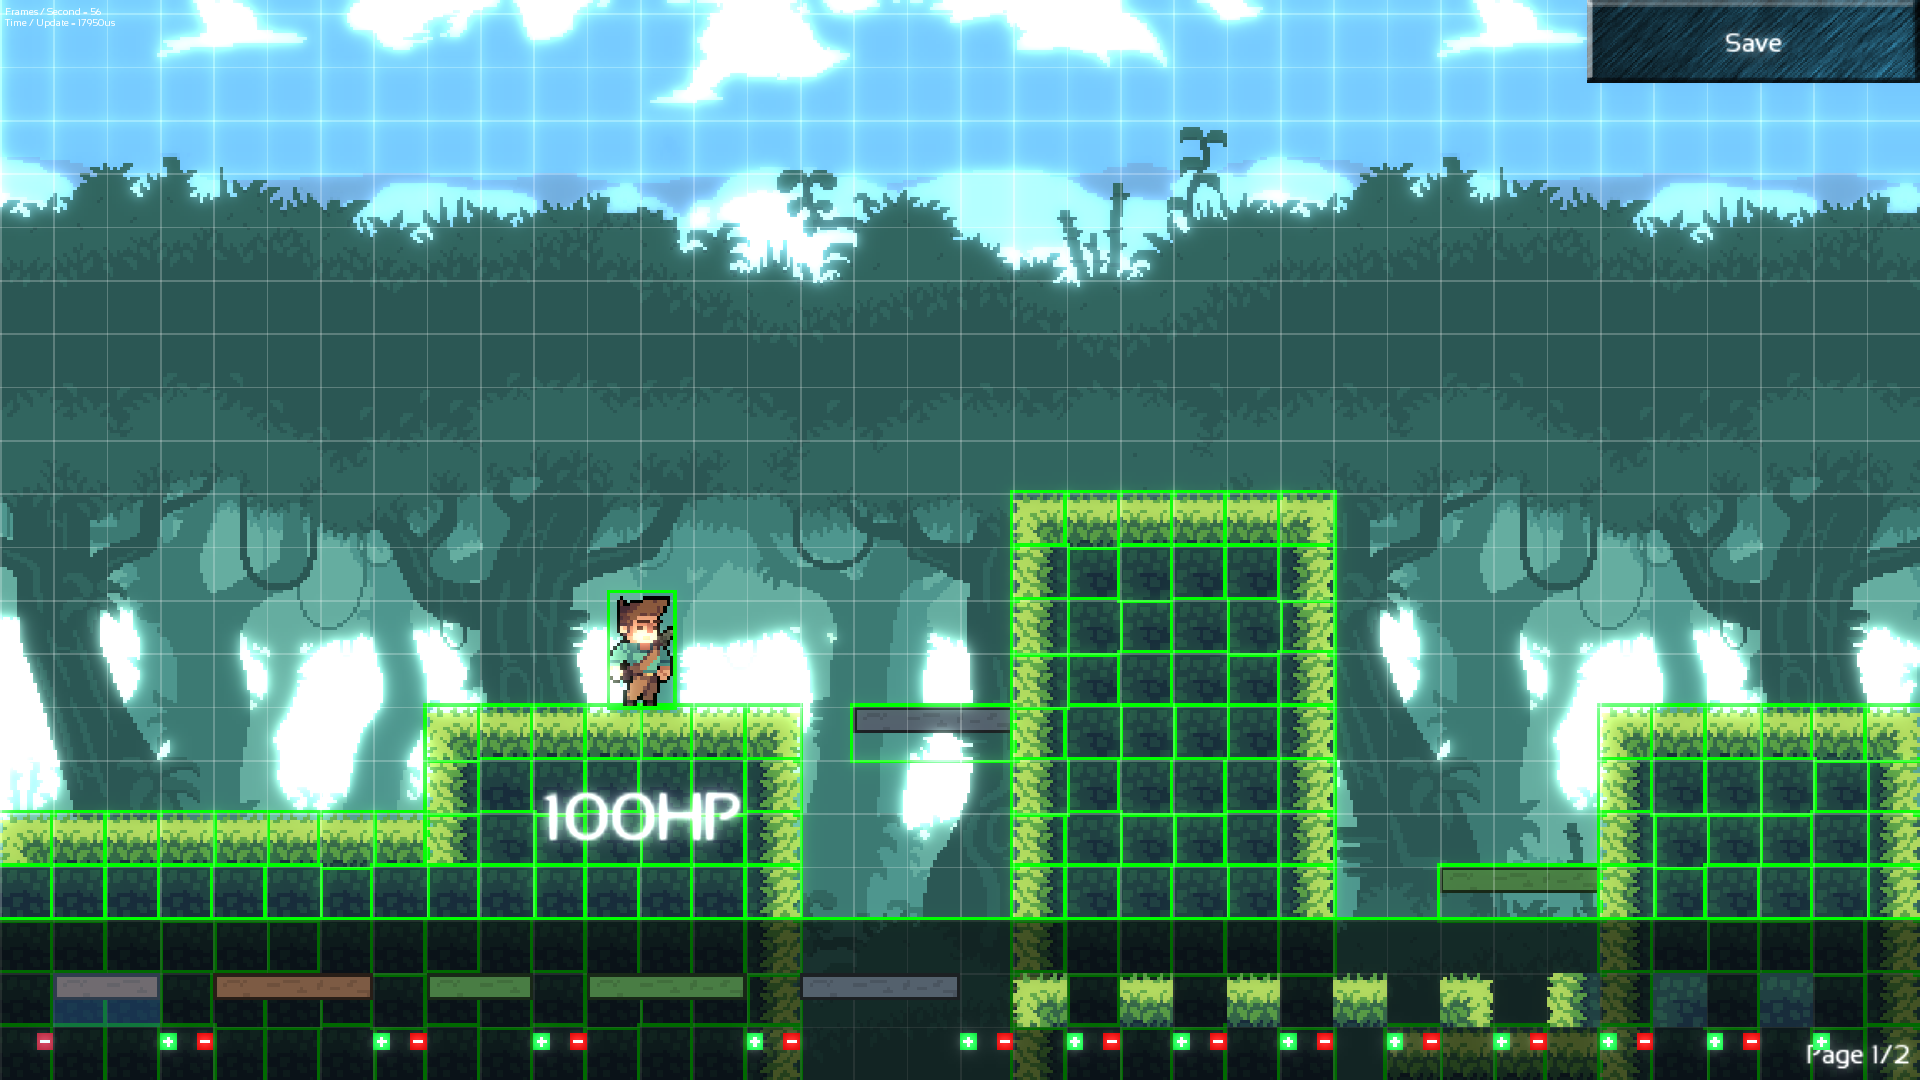
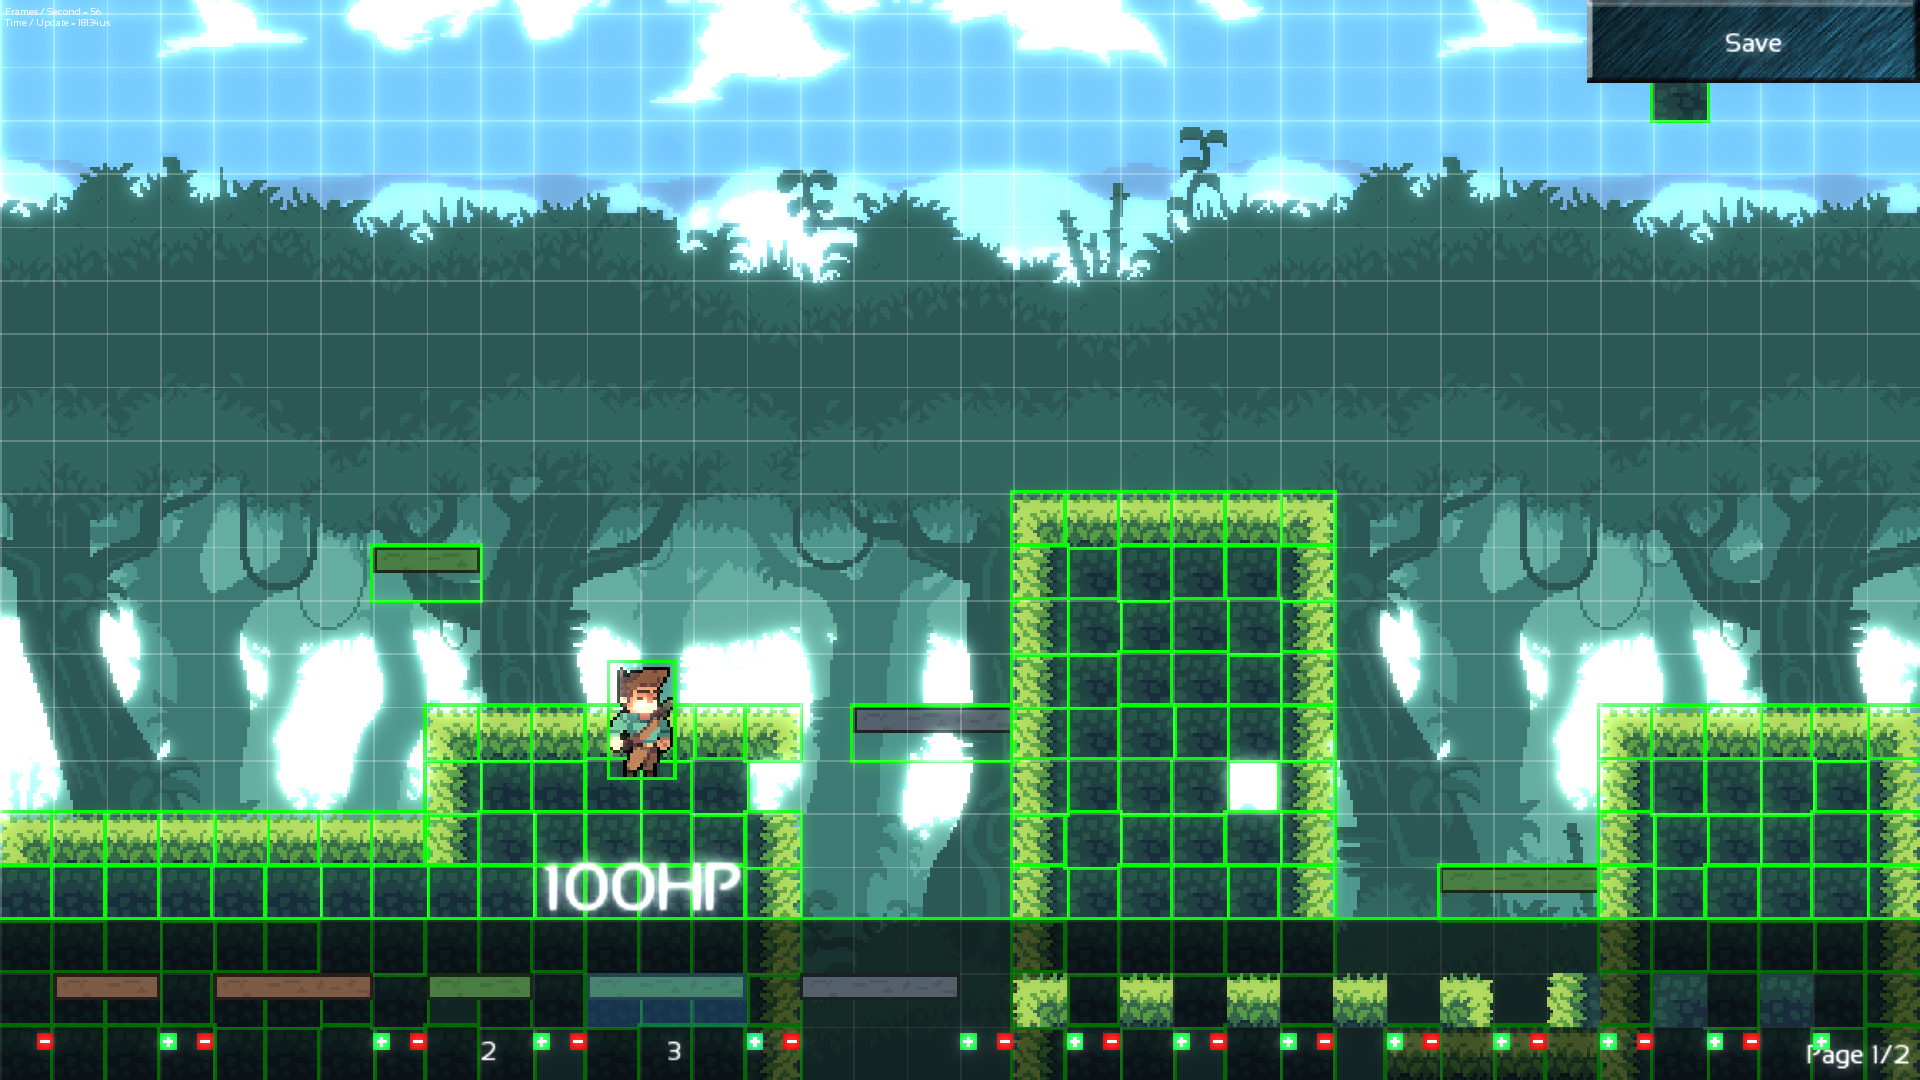
Level Saving Fixes & Inventory Saving

diff --git a/GD4SFMLGame22/GridNode.cpp b/GD4SFMLGame22/GridNode.cpp
@@ -35,6 +35,7 @@ GridNode::GridNode(
 	, m_editor_inventory_gui(window, fonts, camera, sf::FloatRect(0, 276, 576, 48), 0.5f)
 	, m_editor_adder_gui(window, fonts, camera, sf::FloatRect(0, 276, 576, 48), 0)
 	, m_inventory_gui(window, fonts, camera, sf::FloatRect(0, 276, 576, 48), 0.5f)
+	, m_inventory_labels_gui(window, fonts, camera, sf::FloatRect(0, 276, 576, 48), 0.5f)
 	, m_selected_button(nullptr)
 	, m_editor_mode(editor_mode)
 	, m_editor_loaded(false)
@@ -174,7 +175,7 @@ int GridNode::GetInventoryCount(const TileData& tile)
 	return 0;
 }
 
-void GridNode::SelectFromInventory(TileData& tile)
+void GridNode::SelectFromInventory(TileData tile)
 {
 	if (!IsHoldingTile() && m_inventory.count(tile))
 	{
@@ -206,10 +207,12 @@ void GridNode::RemoveFromInventory(const TileData& tile, int count)
 	if (m_inventory.count(tile))
 	{
 		m_inventory[tile] -= count;
+		m_selected_label->SetText(std::to_string(m_inventory[tile]));
 
 		if (m_inventory[tile] <= 0)
 		{
 			m_inventory.erase(tile);
+			m_selected_label->SetText("");
 		}
 	}
 }
@@ -246,23 +249,26 @@ const Camera& GridNode::GetCamera() const
 
 void GridNode::DrawCurrent(sf::RenderTarget& target, sf::RenderStates states) const
 {
-	sf::RectangleShape horizontal_line(sf::Vector2f(m_cell_size * m_horizontal_cells, m_line_width));
-	sf::RectangleShape vertical_line(sf::Vector2f(m_line_width, m_cell_size * m_vertical_cells));
-
-	sf::Color color(255, 255, 255, 60);
-	horizontal_line.setFillColor(color);
-	vertical_line.setFillColor(color);
-
-	for (int i = 0; i < m_vertical_cells; i++)
+	if (m_editor_mode)
 	{
-		horizontal_line.setPosition(sf::Vector2f(0, i * m_cell_size));
-		target.draw(horizontal_line, states);
-	}
+		sf::RectangleShape horizontal_line(sf::Vector2f(m_cell_size * m_horizontal_cells, m_line_width));
+		sf::RectangleShape vertical_line(sf::Vector2f(m_line_width, m_cell_size * m_vertical_cells));
 
-	for (int i = 0; i < m_horizontal_cells; i++)
-	{
-		vertical_line.setPosition(sf::Vector2f(i * m_cell_size, 0));
-		target.draw(vertical_line, states);
+		sf::Color color(255, 255, 255, 60);
+		horizontal_line.setFillColor(color);
+		vertical_line.setFillColor(color);
+
+		for (int i = 0; i < m_vertical_cells; i++)
+		{
+			horizontal_line.setPosition(sf::Vector2f(0, i * m_cell_size));
+			target.draw(horizontal_line, states);
+		}
+
+		for (int i = 0; i < m_horizontal_cells; i++)
+		{
+			vertical_line.setPosition(sf::Vector2f(i * m_cell_size, 0));
+			target.draw(vertical_line, states);
+		}
 	}
 
 	sf::RectangleShape square(sf::Vector2f(m_cell_size, m_cell_size));
@@ -298,6 +304,7 @@ void GridNode::DrawCurrent(sf::RenderTarget& target, sf::RenderStates states) co
 	else
 	{
 		target.draw(m_inventory_gui, states);
+		target.draw(m_inventory_labels_gui, states);
 	}
 }
 
@@ -341,6 +348,7 @@ void GridNode::UpdateCurrent(sf::Time dt, CommandQueue& commands)
 	else
 	{
 		m_inventory_gui.setPosition(camera_position);
+		m_inventory_labels_gui.setPosition(camera_position);
 	}
 }
 
@@ -360,7 +368,7 @@ void GridNode::LoadData(const std::string& path)
 
 	std::ifstream save_data;
 	std::string unfiltered;
-	save_data.open(path);
+	save_data.open(path + ".sav");
 
 	while (std::getline(save_data, unfiltered))
 	{
@@ -377,12 +385,39 @@ void GridNode::LoadData(const std::string& path)
 
 		const int x = data[1];
 		const int y = data[2];
-		int textureID = data[3];
+		const int textureID = data[3];
 
 		std::unique_ptr<TileNode> tile_node(new TileNode(m_textures, GetSceneLayers(), static_cast<Textures>(textureID)));
 		tile_node->setPosition(static_cast<float>(16 * x), static_cast<float>(16 * y));
 
 		AddTileNode(std::move(tile_node));
+	}
+
+	save_data.close();
+	save_data.open(path + ".inv");
+
+	while (std::getline(save_data, unfiltered))
+	{
+		std::string split = ",";
+		int data[2];
+
+		for (int& i : data)
+		{
+			i = std::stoi(unfiltered.substr(0, unfiltered.find(split)));
+			unfiltered.erase(0, unfiltered.find(split));
+			unfiltered.erase(0, 1);
+			std::cout << unfiltered << std::endl;
+		}
+
+		const int textureID = data[0];
+		const int count = data[1];
+
+		AddToInventory(static_cast<Textures>(textureID), count);
+	}
+
+	if (!m_inventory.empty())
+	{
+		LoadInventoryGUI();
 	}
 }
 
@@ -392,13 +427,22 @@ void GridNode::SaveData()
 	save_data.open(m_file_path + ".sav", std::fstream::out);
 	std::unordered_set<sf::Vector2i, Vector2iHash> saved;
 
-	for (const auto& x : m_tile_map)
+	for (const auto& pair : m_tile_map)
 	{
-		if (!saved.count(x.second->Data().GetCellPosition()))
+		if (!saved.count(pair.second->Data().GetCellPosition()))
 		{
-			save_data << x.second->Data().ToSerial();
-			saved.emplace(x.second->Data().GetCellPosition());
+			save_data << pair.second->Data().ToSerial();
+			saved.emplace(pair.second->Data().GetCellPosition());
 		}
+	}
+
+	save_data.close();
+
+
+	save_data.open(m_file_path + ".inv", std::fstream::out);
+	for (const auto& pair : m_inventory)
+	{
+		save_data << static_cast<int>(pair.first.GetTexture()) << "," << pair.second << std::endl;
 	}
 
 	save_data.close();
@@ -471,25 +515,6 @@ void GridNode::HandleEvent(const sf::Event& event, CommandQueue& commands)
 				DropTileAt(m_picked_up_position);
 			}
 		}
-		/*else if (event.mouseButton.button == sf::Mouse::Right)
-		{
-			if (m_tile_map[m_mouse_cell_position])
-			{
-				if (m_selected_tile == nullptr) {
-					std::cout << "Hovering" << std::endl;
-					TileNode copied_tile(m_tile_map[m_mouse_cell_position]);
-
-					if (!copied_tile.GetTile()->IsSelected())
-					{
-						copied_tile.GetTile()->Select();
-						m_selected_tile = &copied_tile;
-					}
-				}
-
-			}
-		}
-		*/
-
 	}
 }
 
@@ -557,6 +582,35 @@ void GridNode::DropTileAt(sf::Vector2i cell_position)
 	m_selected_tile = nullptr;
 }
 
+void GridNode::LoadInventoryGUI()
+{
+	for (auto& pair : m_inventory)
+	{
+		Textures texture = pair.first.GetTexture();
+		TileData tile(texture);
+
+		auto label = std::make_shared<GUI::Label>("", m_fonts);
+
+		auto button = std::make_shared<GUI::TexturedButton>(m_fonts, m_textures, texture);
+		button->SetToggle(true);
+		button->setPosition(16, 292);
+		button->SetCallback([this, tile, button, label]()
+			{
+				SelectFromInventory(tile);
+				m_selected_button = button;
+				m_selected_label = label;
+			});
+
+		const bool new_page = m_inventory_gui.Pack(button, 16);
+
+		label->SetText(std::to_string(m_inventory[tile]));
+		label->setPosition(button->getPosition().x + button->GetBoundingRect().width / 2, 310);
+		label->setScale(0.5f, 0.5f);
+
+		m_inventory_labels_gui.PackManual(label, new_page);
+	}
+}
+
 void GridNode::LoadEditor()
 {
 	if (m_editor_loaded)
@@ -586,7 +640,6 @@ void GridNode::LoadEditor()
 		button->SetCallback([this, texture, button]()
 			{
 				SetNewTileSettings(texture);
-				//m_inventory_gui.DeactivateAllExcept(button);
 				m_selected_button = button;
 			});
 
@@ -601,16 +654,8 @@ void GridNode::LoadEditor()
 		remove_button->SetCallback([this, label, texture]()
 			{
 				TileData tile(texture, true);
+				m_selected_label = label;
 				RemoveFromInventory(tile);
-
-				if (m_inventory.count(tile))
-				{
-					label->SetText(std::to_string(m_inventory[tile]));
-				}
-				else
-				{
-					label->SetText("");
-				}
 			});
 
 		auto add_button = std::make_shared<GUI::TexturedButton>(m_fonts, m_textures, Textures::kAddButton);

diff --git a/GD4SFMLGame22/LevelSelectState.cpp b/GD4SFMLGame22/LevelSelectState.cpp
@@ -25,9 +25,6 @@ LevelSelectState::LevelSelectState(StateStack& stack, Context context)
 		{
 			std::string path = entry.path().string().erase(entry.path().string().size() - 4);
 
-			//https://stackoverflow.com/questions/4072363/how-to-extract-digits-from-the-end-of-string/4072393
-			size_t last_index = path.find_last_not_of("0123456789");
-			std::string result = path.substr(last_index + 1);
 
 			auto level_image = std::make_shared<GUI::Texture>(path + ".png");
 			level_image->setScale(0.6f, 0.6f);
@@ -41,7 +38,7 @@ LevelSelectState::LevelSelectState(StateStack& stack, Context context)
 			play_button->setPosition(bounds.left, bounds.top + bounds.height + 10);
 			play_button->SetCallback([this, path]()
 				{
-					GetContext().grid->SetPathToLoad(path + ".sav");
+					GetContext().grid->SetPathToLoad(path);
 					GetContext().grid->SetEditMode(false);
 					RequestStackPop();
 					RequestStackPush(StateID::kGame);
@@ -53,7 +50,7 @@ LevelSelectState::LevelSelectState(StateStack& stack, Context context)
 			edit_button->setPosition(bounds.left + play_button->GetBoundingRect().width, bounds.top + bounds.height + 10);
 			edit_button->SetCallback([this, path]()
 				{
-					GetContext().grid->SetPathToLoad(path + ".sav");
+					GetContext().grid->SetPathToLoad(path);
 					GetContext().grid->SetEditMode(true);
 					RequestStackPop();
 					RequestStackPush(StateID::kGame);
@@ -67,6 +64,7 @@ LevelSelectState::LevelSelectState(StateStack& stack, Context context)
 				{
 					fs::remove(path + ".png");
 					fs::remove(path + ".sav");
+					fs::remove(path + ".inv");
 					RequestStackPop();
 					RequestStackPush(StateID::kLevelSelect);
 				});

diff --git a/GD4SFMLGame22/GridNode.hpp b/GD4SFMLGame22/GridNode.hpp
@@ -16,6 +16,8 @@
 #include <iostream>
 #include <fstream>
 
+#include "Label.hpp"
+
 class GridNode : public SceneNode
 {
 public:
@@ -45,7 +47,7 @@ public:
 	bool CellPickable(sf::Vector2i cell_position);
 
 	int GetInventoryCount(const TileData& tile);
-	void SelectFromInventory(TileData& tile);
+	void SelectFromInventory(TileData tile);
 	void AddToInventory(TileData& tile, int count = 1);
 	void AddToInventory(Textures texture, int count = 1);
 	void RemoveFromInventory(const TileData& tile, int count = 1);
@@ -70,6 +72,7 @@ private:
 	bool DropTile();
 	void DropTileAt(sf::Vector2i cell_position);
 
+	void LoadInventoryGUI();
 	void LoadEditor();
 
 private:
@@ -91,7 +94,9 @@ private:
 	GUI::ScrollableContainer m_editor_inventory_gui;
 	GUI::ScrollableContainer m_editor_adder_gui;
 	GUI::ScrollableContainer m_inventory_gui;
+	GUI::ScrollableContainer m_inventory_labels_gui;
 	std::shared_ptr<GUI::TexturedButton> m_selected_button;
+	std::shared_ptr<GUI::Label> m_selected_label;
 	sf::RectangleShape m_background;
 	sf::Vector2f m_background_position;
 

diff --git a/GD4SFMLGame22/Grid.cpp b/GD4SFMLGame22/Grid.cpp
@@ -43,8 +43,8 @@ void Grid::CreatePath()
 		stream = std::fstream(path);
 	} while (stream.good());
 
-	stream.open("Levels/level" + std::to_string(number), std::fstream::out);
-	m_path_to_load = path;
+	stream.open(path, std::fstream::out);
+	m_path_to_load = "Levels/level" + std::to_string(number);
 }
 
 void Grid::HandleEvent(const sf::Event& event, CommandQueue& commands) const
